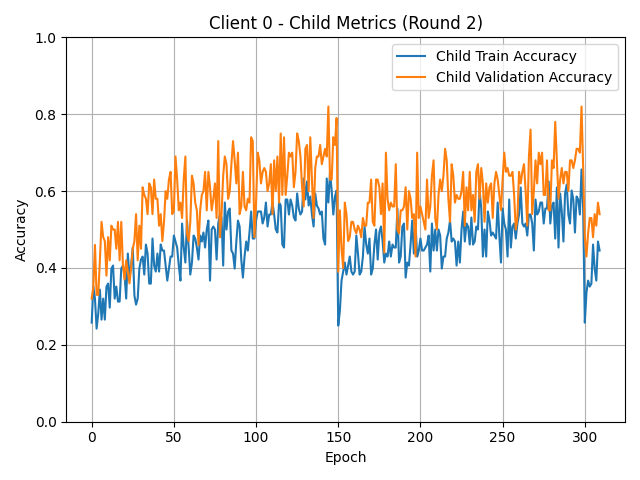
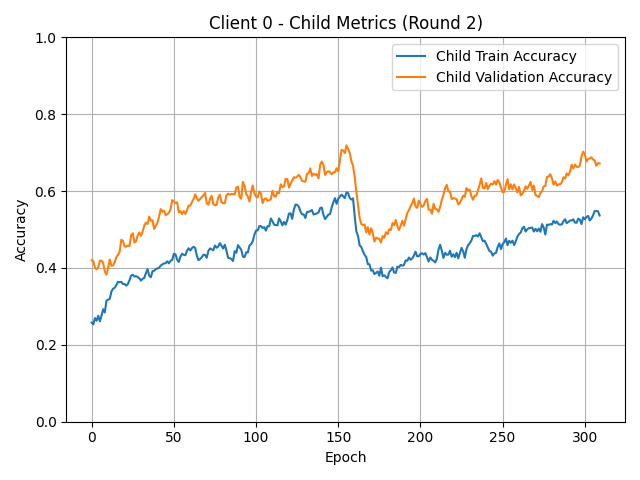
Update FL-ENAS...
Changes made: 1) Smoothed the plots to be prettier and plot the global results. 2) change the Cosine Scheduler so the restart is performed in the epoch 160, this improved the results significantly

Changed region(s): [[0.125, 0.2188, 0.9375, 0.6875]]

diff --git a/flwr-cifar10-enas/flwr_cifar10_enas/task.py b/flwr-cifar10-enas/flwr_cifar10_enas/task.py
@@ -420,8 +420,8 @@ class Trainer:
                 
                 # Gráfico de precisión (accuracy)
                 plt.figure()
-                plt.plot(child_train_accuracies, label="Child Train Accuracy")
-                plt.plot(child_valid_accuracies, label="Child Validation Accuracy")
+                plt.plot(smooth_curve(child_train_accuracies), label="Child Train Accuracy")
+                plt.plot(smooth_curve(child_valid_accuracies), label="Child Validation Accuracy")
                 plt.title(f"Client {self.partition_id} - Child Metrics (Round {self.actual_round})")
                 plt.xlabel("Epoch")
                 plt.ylabel("Accuracy")
@@ -435,7 +435,7 @@ class Trainer:
                 # Gráfico de precisión (accuracy)
                 plt.figure()
                 # plt.plot(controller_losses, label="Controller Loss")
-                plt.plot(controller_accuracies, label="Controller Accuracy")
+                plt.plot(smooth_curve(controller_accuracies), label="Controller Accuracy")
                 plt.title(f"Client {self.partition_id} - Controller Metrics (Round {self.actual_round})")
                 plt.xlabel("Epoch")
                 plt.ylabel("Accuracy")

diff --git a/flwr-cifar10-enas/flwr_cifar10_enas/plot_results_json.py b/flwr-cifar10-enas/flwr_cifar10_enas/plot_results_json.py
@@ -1,10 +1,10 @@
 import json
 import matplotlib.pyplot as plt
 import os
-
+import numpy as np
 # Ruta al archivo
-results_path = "/workspace/flwr-cifar10-basic/flwr_cifar10_basic/results.json"
-output_dir = "/workspace/flwr-cifar10-basic/flwr_cifar10_basic/plots"
+results_path = "/workspace/flwr-cifar10-enas/flwr_cifar10_enas/results.json"
+output_dir = "/workspace/flwr-cifar10-enas/flwr_cifar10_enas/plots"
 os.makedirs(output_dir, exist_ok=True)
 
 # Cargar los resultados
@@ -34,6 +34,7 @@ plt.xlabel("Round")
 plt.ylabel("Accuracy")
 plt.title("Global Evaluation (Accuracy)")
 plt.ylim(0,1)
+plt.xticks(np.arange(1, 6, 1))
 plt.legend()
 plt.grid(True)
 plt.tight_layout()

diff --git a/flwr-cifar10-enas/flwr_cifar10_enas/src/cifar10/child.py b/flwr-cifar10-enas/flwr_cifar10_enas/src/cifar10/child.py
@@ -23,7 +23,7 @@ DEFINE_boolean("child_lr_cosine", True, "Use cosine lr schedule")
 DEFINE_float("child_lr_dec_rate", 0.1, "")
 DEFINE_float("child_lr_max", 0.05, "for lr schedule")
 DEFINE_float("child_lr_min", 0.0005, "for lr schedule")
-DEFINE_integer("child_lr_T_0", 150, "for lr schedule")
+DEFINE_integer("child_lr_T_0", 160, "for lr schedule")
 DEFINE_integer("child_lr_T_mul", 1, "for lr schedule")
 DEFINE_integer("child_num_aggregate", None, "")
 DEFINE_integer("child_num_replicas", 1, "")
